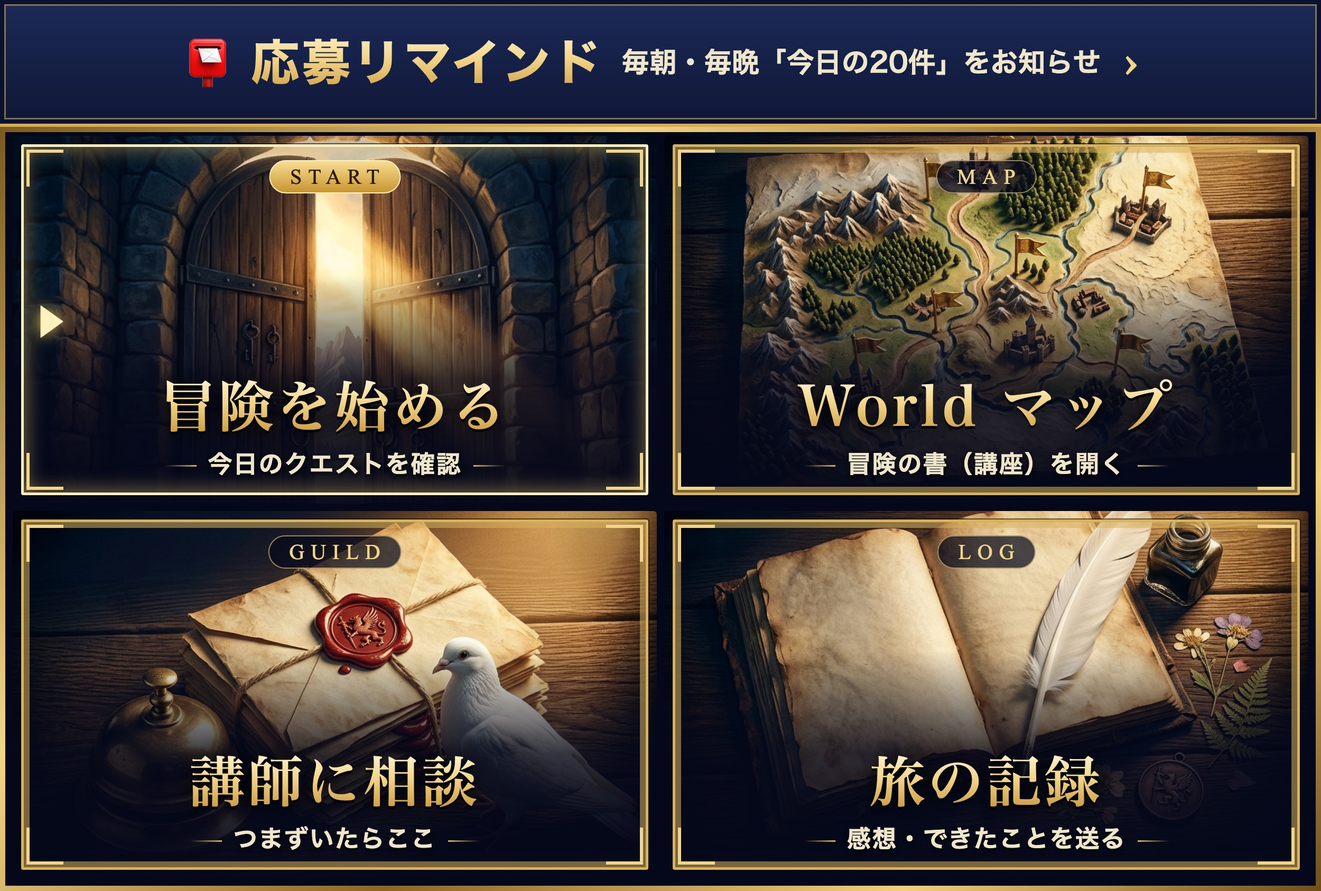
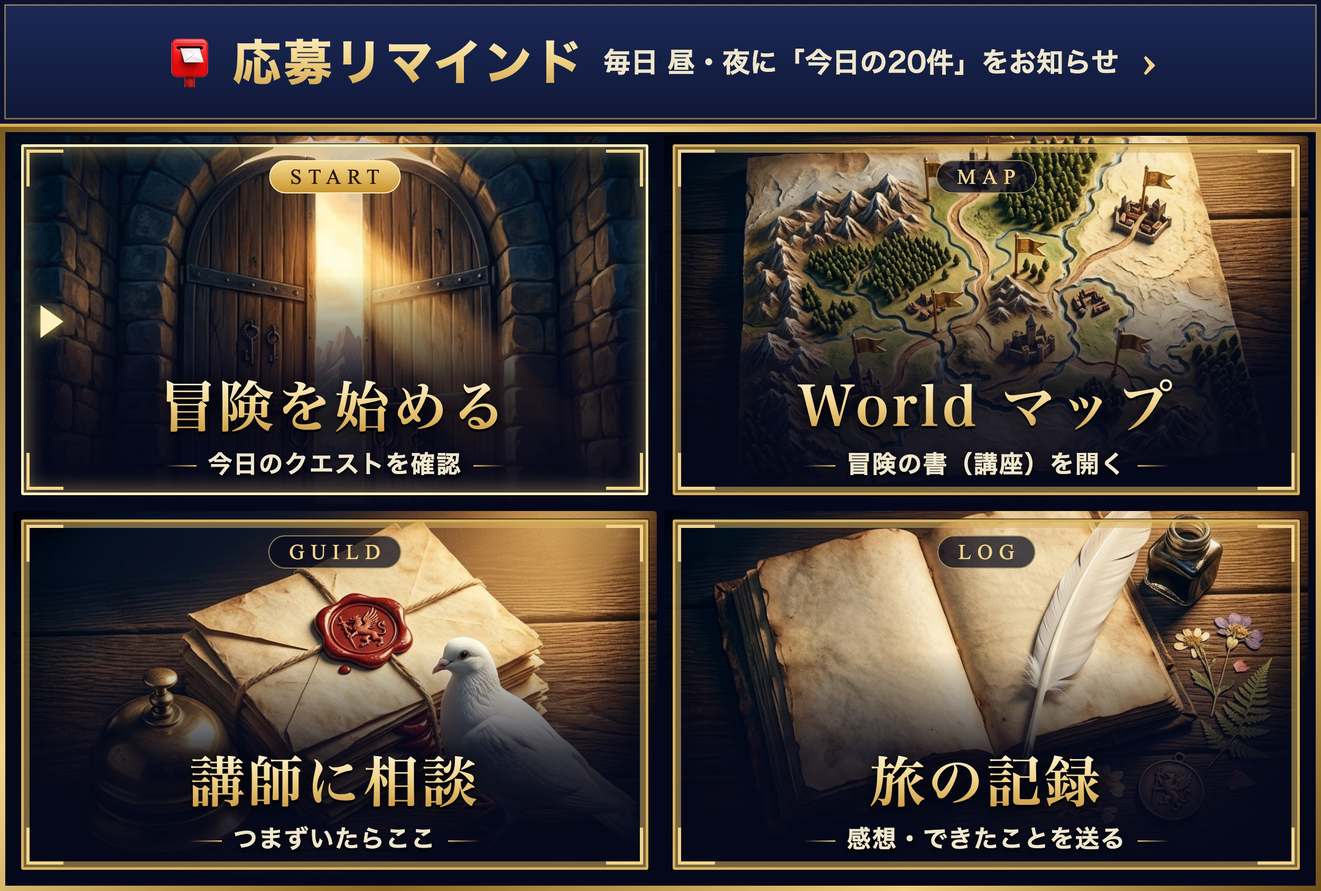
応募リマインド：朝9時の通知を昼12時に変更（メニューの帯・案内文も合わせる）

Changed region(s): [[0.1248, 0.0308, 0.8736, 0.0925]]

diff --git a/lstep-clone/lib/applies.ts b/lstep-clone/lib/applies.ts
@@ -1,4 +1,4 @@
-// 応募リマインド：毎朝「今日の20件を応募しましょう」、毎晩「今日は20件応募できましたか？」を送る
+// 応募リマインド：毎日お昼に「今日の20件を応募しましょう」、毎晩「今日は20件応募できましたか？」を送る
 //   「応募スタート」で始める（「応募リマインド オン」でも可）／「応募リマインド オフ」で止める
 import { all, get, run } from "./db";
 import { pushToFriend, queuePending } from "./delivery";
@@ -8,7 +8,7 @@ import type { Outbox } from "./delivery";
 import type { Friend } from "./types";
 
 /** 送る時刻（日本時間・時）。その時を過ぎて最初の定期実行で1回だけ送る */
-const MORNING_HOUR = 9;
+const MORNING_HOUR = 12;
 const NIGHT_HOUR = 20;
 const MORNING = "今日の20件を応募しましょう";
 const NIGHT = "今日は20件応募できましたか？";
@@ -33,20 +33,20 @@ export async function handleApplyText(box: Outbox, friend: Friend, raw: string):
   else await run("INSERT INTO apply_goals (friend_id, remind_enabled, created_at) VALUES (?, ?, ?)", friend.id, on ? 1 : 0, Date.now());
   box.add(
     on
-      ? `📮 応募リマインドを始めます。\n毎朝${MORNING_HOUR}時に「${MORNING}」、夜${NIGHT_HOUR}時に「${NIGHT}」とお送りします。\n止めるときは「応募リマインド オフ」と送ってください。`
+      ? `📮 応募リマインドを始めます。\n毎日${MORNING_HOUR}時（お昼）に「${MORNING}」、夜${NIGHT_HOUR}時に「${NIGHT}」とお送りします。\n止めるときは「応募リマインド オフ」と送ってください。`
       : "応募リマインドを止めました。再開するときは「応募スタート」と送ってください。",
     "auto",
   );
   return true;
 }
 
-/** 定期実行から呼ぶ：朝と夜に1回ずつ送る */
+/** 定期実行から呼ぶ：昼と夜に1回ずつ送る */
 export async function sendApplyReminders(now = Date.now()) {
   const h = jstHour(now);
   const slot = h >= NIGHT_HOUR ? "night" : h >= MORNING_HOUR ? "morning" : null;
   if (!slot) return;
   const d = jstDateKey(now);
-  // 朝の送信日は last_noon_date 列に記録する（列名は最初の版のまま）
+  // 昼の送信日は last_noon_date 列に記録する（列名は最初の版のまま）
   const col = slot === "morning" ? "last_noon_date" : "last_night_date";
   const due = await all<ApplyGoal & Friend>(
     `SELECT g.*, f.* FROM apply_goals g JOIN friends f ON f.id = g.friend_id

diff --git a/lstep-clone/funnels/claude-code-course/assets/richmenu-normal.html b/lstep-clone/funnels/claude-code-course/assets/richmenu-normal.html
@@ -31,5 +31,5 @@
 <i class="corner tl"></i><i class="corner tr"></i><i class="corner bl"></i><i class="corner br"></i>
 <div class="tag jp">ギルド</div><div class="txt"><div class="t">講師に質問</div><div class="s">質問フォームが届く</div></div></div>
 </div>
-<div class="strip"><span class="ic">📮</span><b>応募リマインド</b><span class="sub">毎朝・毎晩「今日の20件」をお知らせ</span><span class="go">›</span></div>
+<div class="strip"><span class="ic">📮</span><b>応募リマインド</b><span class="sub">毎日 昼・夜に「今日の20件」をお知らせ</span><span class="go">›</span></div>
 </body></html>

diff --git a/lstep-clone/funnels/claude-code-course/assets/richmenu-buyer.html b/lstep-clone/funnels/claude-code-course/assets/richmenu-buyer.html
@@ -22,5 +22,5 @@
 <i class="corner tl"></i><i class="corner tr"></i><i class="corner bl"></i><i class="corner br"></i>
 <div class="tag">LOG</div><div class="txt"><div class="t">旅の記録</div><div class="s">感想・できたことを送る</div></div></div>
 </div>
-<div class="strip"><span class="ic">📮</span><b>応募リマインド</b><span class="sub">毎朝・毎晩「今日の20件」をお知らせ</span><span class="go">›</span></div>
+<div class="strip"><span class="ic">📮</span><b>応募リマインド</b><span class="sub">毎日 昼・夜に「今日の20件」をお知らせ</span><span class="go">›</span></div>
 </body></html>

diff --git a/lstep-clone/funnels/claude-code-course/README.md b/lstep-clone/funnels/claude-code-course/README.md
@@ -109,7 +109,7 @@ node scripts/seed-funnel.mjs funnels/claude-code-course/funnel.mjs --replace
 | 右上 | 冒険者登録／購入した方 | テキスト送信「購入しました」（受講登録フォームが届く） |
 | 左下 | 講座ページを開く／冒険の書 | テキスト送信「講座」（返信の1行目に講座URL） |
 | 右下 | 講師に質問／ギルド | フォーム案内（講師への質問フォーム） |
-| 上の細い帯 | 📮 応募リマインド | テキスト送信「応募スタート」（毎朝9時「今日の20件を応募しましょう」・夜20時「今日は20件応募できましたか？」） |
+| 上の細い帯 | 📮 応募リマインド | テキスト送信「応募スタート」（毎日12時「今日の20件を応募しましょう」・夜20時「今日は20件応募できましたか？」） |
 
 レイアウトは管理画面の「大・4分割（2×2）＋上の細い帯」（帯の高さ240px。2026-10-07 に下から上へ移した）。
 
